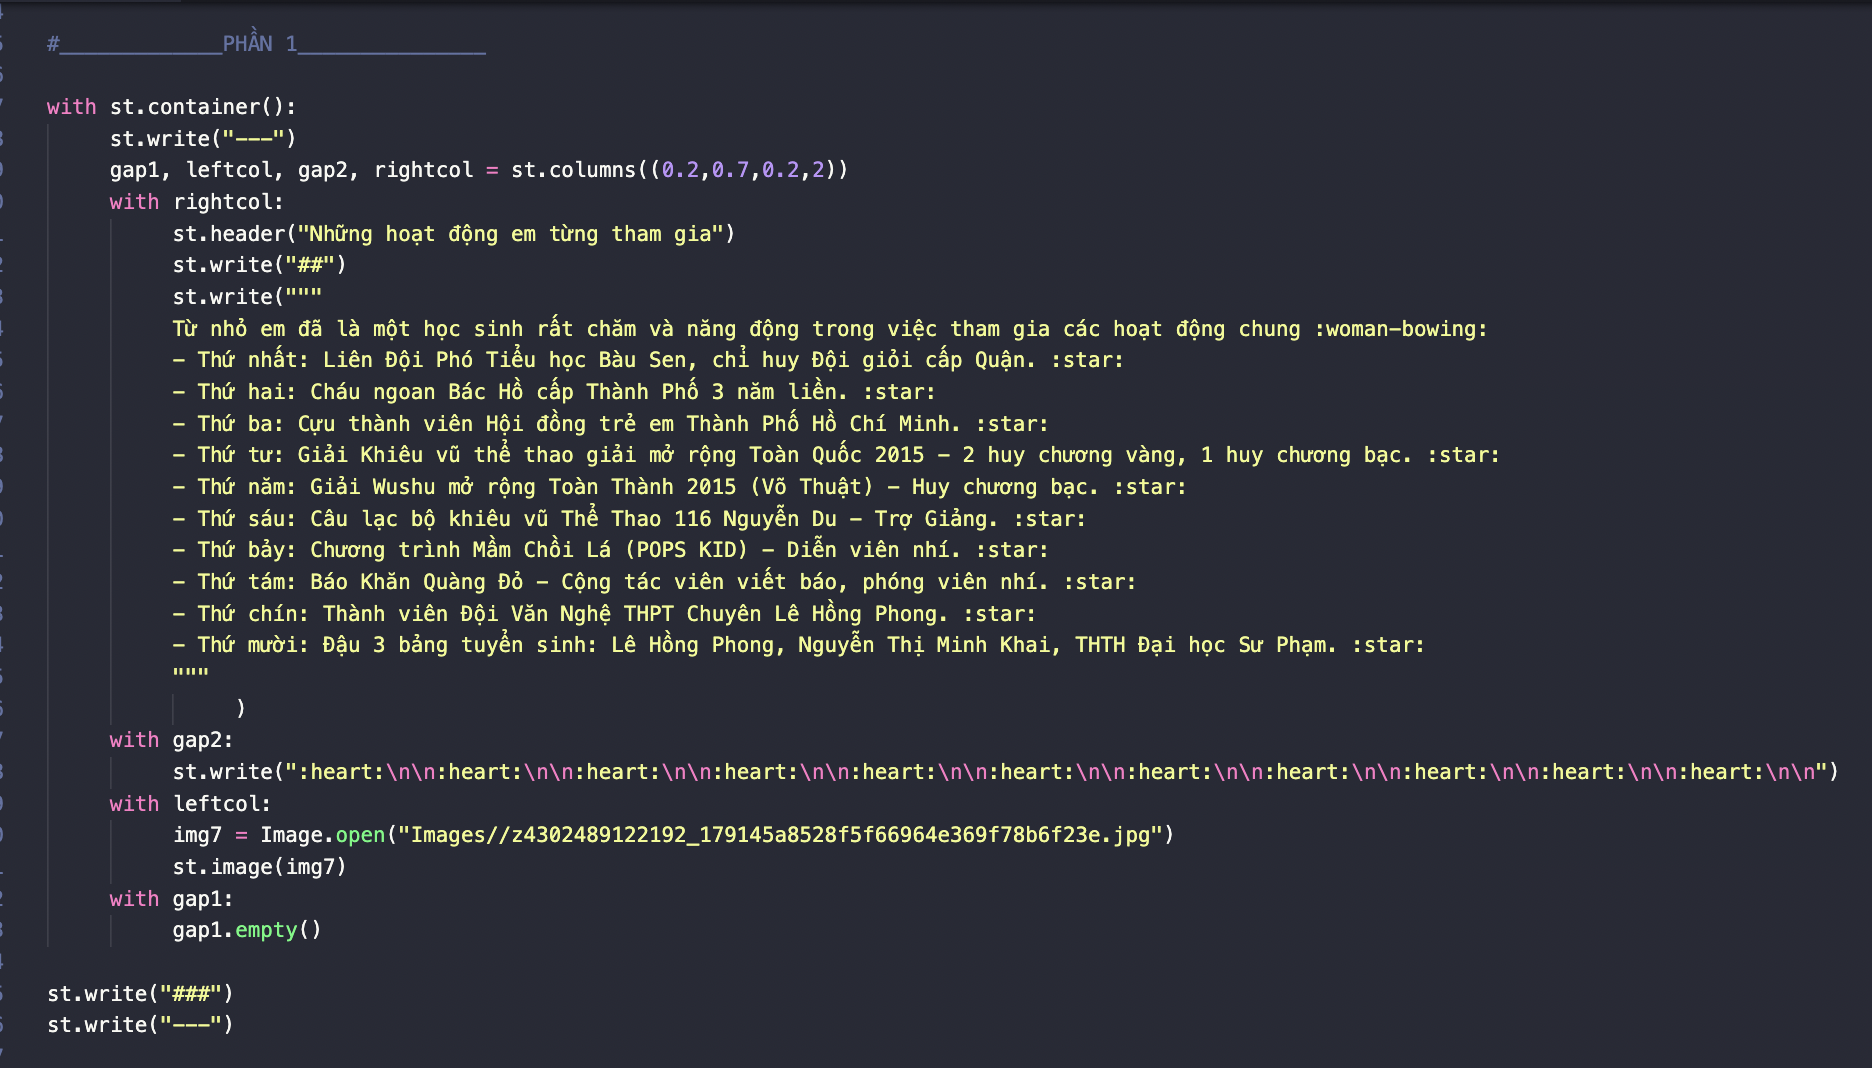
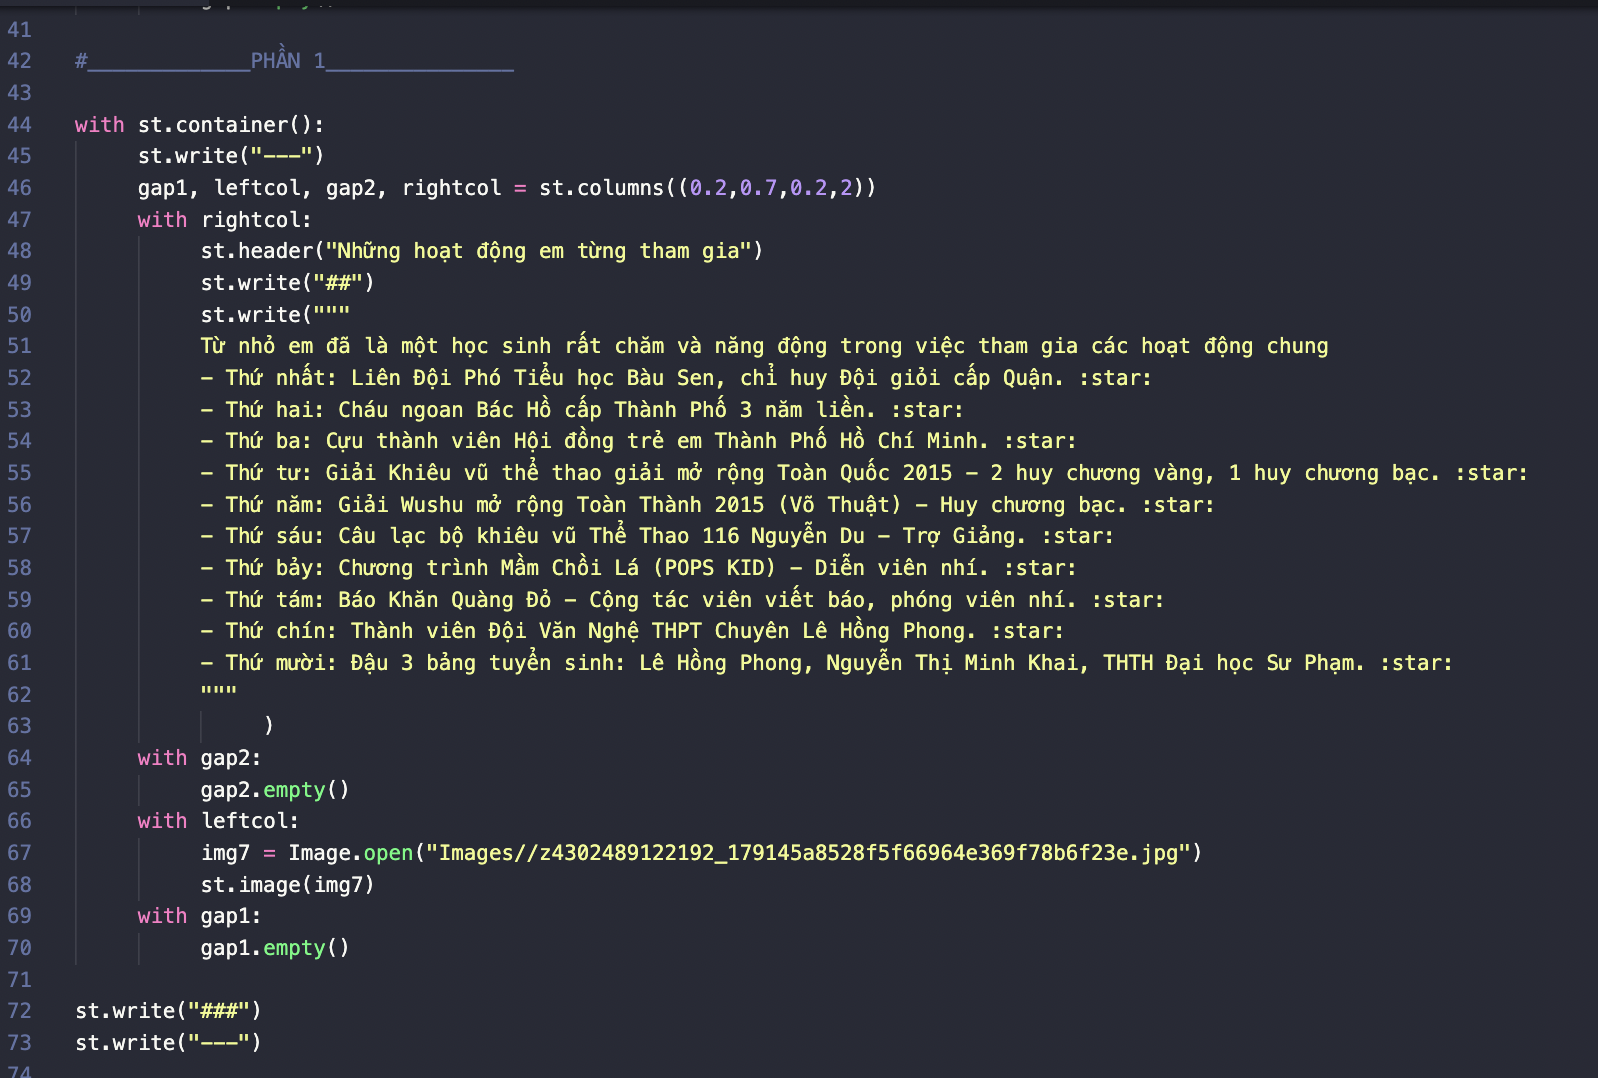
Add files via upload

diff --git a/tranbaotien.py b/tranbaotien.py
@@ -17,11 +17,18 @@ with st.container():
      leftcol, gap, mid, rightcol = st.columns((1,0.2,2,1))
      with mid:
           st.title("Trần Bảo Tiên")
-          st.subheader("Học sinh THPT Chuyên Lê Hồng Phong 	:point_right:	:point_left: :heart_on_fire:")
+          st.subheader("Học sinh THPT Chuyên Lê Hồng Phong")
           st.write(" 12CV1 (Chuyên Văn 1)")
-          st.write("- Bảo Tiên cực kì thích học code và tạo ra nhiều thứ thú vị.")
-          st.write("- Bảo Tiên vô cùng thiếu nghị lực và không thể giận ai được quá lâu.")
-          st.write("- Bảo Tiên thích uống rau má sữa, ăn bánh ngọt và hay tò mò~ :cake: :sparkles:")
+          st.write("""
+          Em muốn được học tập và làm việc tại một môi trường rộng lớn và mang tính cạnh tranh cao để rèn luyện bản thân, trải nghiệm, học hỏi nhiều hơn nữa.
+          Theo em, "Chẳng ai có thể đánh thuế ước mơ" của người trẻ. 
+          Cũng từ đó, mà em muốn chinh phục những đỉnh cao hơn nữa, muốn ước ao và đạt được mục tiêu mình đặt ra. 
+          Giới hạn hay kỉ lục vốn dĩ được đặt ra chính là để bị phá vỡ.
+
+          Còn rất nhiều điều em chưa biết, chưa tận mắt chứng kiến và chưa đạt được. 
+          Những điều đó khiến em tò mò về khả năng của bản thân và tự hỏi rằng đâu là điểm cực hạn mình có thể phấn đấu được. 
+          Hay vốn dĩ... nó không hề có điểm dừng?
+          """)
           st.write("[Tìm hiểu thêm qua link facebook >](https://www.facebook.com/baotiendancer/)")
      with leftcol:
           img2 = Image.open("Images/122407738_2286976264780882_1017126760838664431_n.jpeg")
@@ -41,7 +48,7 @@ with st.container():
           st.header("Những hoạt động em từng tham gia")
           st.write("##")
           st.write("""
-          Từ nhỏ em đã là một học sinh rất chăm và năng động trong việc tham gia các hoạt động chung :woman-bowing:
+          Từ nhỏ em đã là một học sinh rất chăm và năng động trong việc tham gia các hoạt động chung
           - Thứ nhất: Liên Đội Phó Tiểu học Bàu Sen, chỉ huy Đội giỏi cấp Quận. :star:
           - Thứ hai: Cháu ngoan Bác Hồ cấp Thành Phố 3 năm liền. :star:
           - Thứ ba: Cựu thành viên Hội đồng trẻ em Thành Phố Hồ Chí Minh. :star:
@@ -55,7 +62,7 @@ with st.container():
           """
                )
      with gap2:
-          st.write(":heart:\n\n:heart:\n\n:heart:\n\n:heart:\n\n:heart:\n\n:heart:\n\n:heart:\n\n:heart:\n\n:heart:\n\n:heart:\n\n:heart:\n\n")
+          gap2.empty()
      with leftcol:
           img7 = Image.open("Images//z4302489122192_179145a8528f5f66964e369f78b6f23e.jpg")
           st.image(img7)
@@ -73,16 +80,19 @@ with st.container():
           img_b = Image.open("Images/z4302410330167_291e5a958594b941ba84b4e5c1b28669.jpg")
           st.image(img_b)
      with leftcol:
-          st.header("Vì sao nên chọn Bảo Tiên?")
+          st.header("Vì sao em cảm thấy bản thân xứng đáng được chọn?")
           st.write("##")
           st.write("""
-          Trường sẽ không bao giờ tìm thấy ai đáng yêu hơn Bảo Tiên trên hành tinh xanh này! :earth_africa:
-          - Thứ nhất: Em hứa sẽ học thật giỏi và đem nhiều thành tích về! :star:
-          - Thứ hai: Em ngoan và chịu tiếp thu. :star:
-          - Thứ ba: Em luôn cố gắng trong mọi việc em làm và vô cùng có trách nhiệm. :star:
-          - Thứ tư: Em mong được trường chấp nhận và trở thành học sinh của trường. 	:star:
-          Đây là trang web em tự mình viết ra bằng code, thông qua thư viện streamlit.\n
-          Vì em mong có thể gây ấn tượng với Ban tuyển sinh của trường. :rainbow:
+          Em nghĩ bản thân là một trong những học sinh xứng đáng để trở thành mảnh ghép của trường vì: 
+          - Em luôn nỗ lực và cố gắng không ngừng nghỉ để trở nên giỏi hơn mỗi ngày. 
+          - Em có khả năng thích nghi tốt với mọi môi trường học tập - sáng tạo chỉ trong khoảng thời gian ngắn.
+          - Em làm việc rõ ràng và có kế hoạch nhưng không quá cứng nhắc.
+          - Em có khả năng tiếp thu và cải thiện rất nhanh chóng các kĩ năng cần thiết.
+          - Em mong bản thân có thể đi du học dựa trên học bổng để không phải làm gánh nặng cho gia đình.
+          - Em là một người đơn giản nhưng không nhàm chán.
+          ###
+          Nếu như được chọn, em sẽ chứng minh khả năng của mình và không bao giờ để bản thân bị thụt lùi so với các học sinh còn lại.\n
+          Dù em biết có rất nhiều bạn học sinh đang cạnh tranh cùng mình, nhưng em vẫn sẽ không bao giờ bỏ cuộc.
           """
                )
      with rightcol:
@@ -94,7 +104,7 @@ st.write("---")
 
 #_____________PHẦN 3______________
 
-st.header(" >> Kênh Youtube của Bảo Tiên :heart:")
+st.header(" >> Kênh Youtube của em.")
 st.write("###")
 with st.container():
      leftcol, mid, rightcol = st.columns((1,0.2,2))
